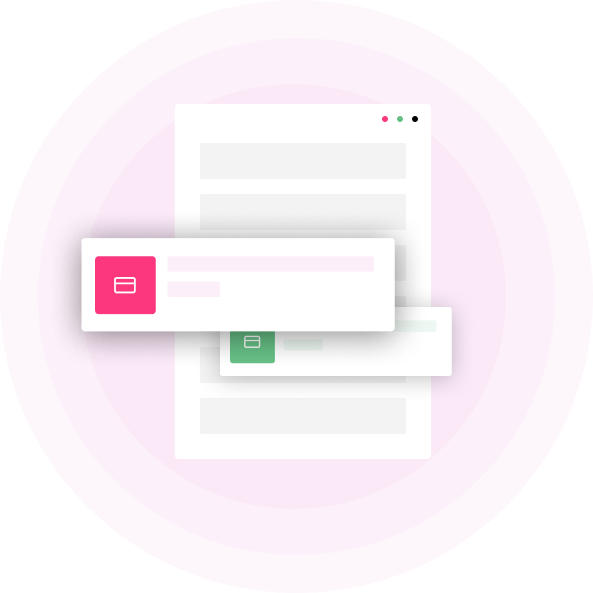
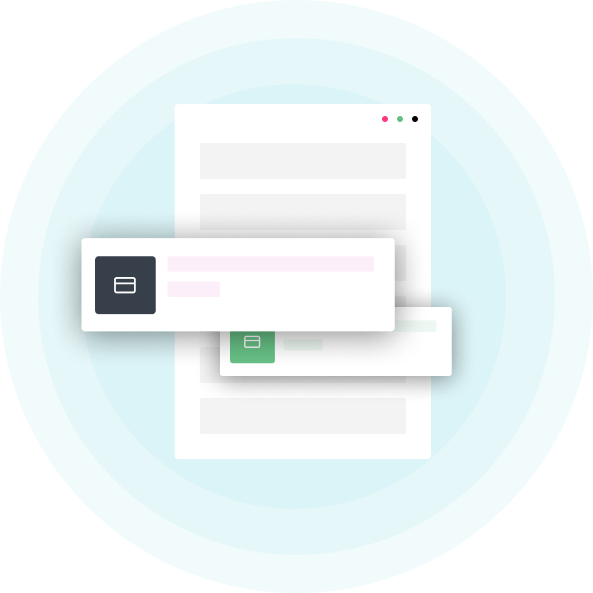
finzalizado

Changed region(s): [[0.1214, 0.2125, 0.8803, 0.8803], [0.3339, 0.1214, 0.6374, 0.1821]]

diff --git a/src/Pages/MainPage/mainPage.css b/src/Pages/MainPage/mainPage.css
@@ -1,3 +1,8 @@
+:root{
+    --headerBackground:#373F4A;
+    --buttonBackground:#D9CEC5;
+    --preto:#212529;
+}
 .divMainPage{
     background-color: white;
     width: 100%;
@@ -6,7 +11,8 @@
 }
 
 .header{
-    background-color: #F8F9FA;
+    margin-top: 0vh;
+    background-color:var(--headerBackground);
     height: 10vh;
     display: flex;
     flex-direction: row;
@@ -15,33 +21,46 @@
     box-shadow: 0px 4px 32px -12px rgba(0, 0, 0, 0.25);
 }
 .header>button{
-    background-color: #E9ECEF;
-    border-style: none;
+    background-color: transparent;
+    color: var(--buttonBackground);
+    border:1px solid var(--buttonBackground);
     border-radius: 5px;
     width: 60px;
     height: 5vh;
 }
+.header>button:hover{
+    transition: all 0.4s;
+    background-color: var(--buttonBackground);
+    color: var(--headerBackground);
+    cursor:pointer;
+}
 
 /*BODY*/
 .body{
-    color:black;
-    margin-top: 6vh;
+    background-color:var(--preto) ;
+    color:white;
     width: 100%;
+    height: 90vh;
     display:flex;
     flex-direction: row;
     justify-content: center;
+    margin: 0;
+    padding: 0;
+    box-sizing: border-box;
 }
 .form{
+    margin-top: 10vh;
     text-align: start;
     color:black;
-    border:1px solid #E9ECEF;
+    background-color: white;
     width: 360px;
-    height: 350px;
+    min-height: 350px;
     display: flex;
     flex-direction: column;
     align-items: center;
     justify-content: center;
     font-size: 12px;
+    border-radius: 5px;
 }
 .divForm{
     display: flex;
@@ -84,7 +103,7 @@
     border-style: none;
     width: 85%;
     height: 50px;
-    background-color: #FD377E;
+    background-color: var(--headerBackground);
     color: white;
     border-radius: 7px;
     font-size: 16px;
@@ -95,6 +114,7 @@
 .divList{
     width: 650px;
     margin-left: 30px;
+    margin-top: 10vh;
 }
 .divList>ul>.NoCard,.divList>ul{
     height: 65vh;
@@ -119,7 +139,7 @@
     list-style: none;
 }
 .headerList>ul>li>button{
-    background-color: #E9ECEF;
+    background-color: var(--buttonBackground);
     color:#5B6166;
     border-style: none;
     width: 80px;
@@ -127,7 +147,7 @@
     border-radius: 8px;
 }
 .headerList>ul>li>button:focus{
-    background-color: #FD377E;
+    background-color: var(--headerBackground);
     color:white;
     transition:all 0.5s
 }
@@ -136,7 +156,8 @@
     width: 100%;
 }
 .card{
-    background-color: #F8F9FA;
+    background-color: var(--headerBackground);
+    color: var(--buttonBackground);
     margin-bottom:5vh;
     height: 13vh;
     border-radius: 10px;
@@ -148,10 +169,14 @@
     padding-right: 15px;
 }
 .card>button{
+    background-color: var(--buttonBackground);
     border-style: none;
     height: 5vh;
     width: 30px;
     border-radius: 5px;
+}
+.card>button:hover{
+    cursor: pointer;
 }
 .card>section{
     display: flex;

diff --git a/src/components/Form/form.jsx b/src/components/Form/form.jsx
@@ -7,6 +7,8 @@ function Form({add,lista}){
     const [tipo, setTipo]           = useState("Entrada")
     const [preco, setPreco]         = useState()
     const [precoTotal,setPrecoTotal]= useState(0)
+    const [valorEntrada,setValorEntrada]= useState(0)
+    const [valorSaida,setValorSaida]= useState(0)
 
     function handleAdd(){   
         add(descricao,tipo,preco)
@@ -14,18 +16,23 @@ function Form({add,lista}){
     }
 
     useEffect(()=>{
-        const soma = lista.reduce((acc,cur)=>{
-            //se for despesa, multipla por -1
-            let sum
-            cur.type==="Despesa"?
-            sum= acc-cur.value:
-            sum= acc+cur.value;
+        const entrada = lista.filter((value)=>{
+            return value.type==="Entrada"
+        })
+        const totalEntrada = entrada.map((value)=>{
+            return value.value
+        })
 
-            return sum
-           },0)
-        
-        setPrecoTotal(soma)
+        const saida = lista.filter((value)=>{
+            return value.type==="Despesa"
+        })
+        const totalSaida = saida.map((value)=>{
+            return value.value
+        })
 
+
+        setValorEntrada(totalEntrada)
+        setValorSaida(totalSaida)
     },[lista])
 
     
@@ -51,7 +58,7 @@ function Form({add,lista}){
                 </div>
                 <input  type="submit" value ="Inserir Valor" />
             </form>
-            <ValorTotal valorTotal={precoTotal}/>
+            <ValorTotal entrada={valorEntrada} saida ={valorSaida}/>
         </div>
         
     )

diff --git a/src/components/ValorTotal/valorTotal.jsx b/src/components/ValorTotal/valorTotal.jsx
@@ -1,14 +1,32 @@
+import {PieChart, Pie, Sector, Cell, ResponsiveContainer} from 'recharts'
 
-function ValorTotal({valorTotal}){
-    
+function ValorTotal({entrada,saida}){
+
+    const data = [
+        { name: 'Group A', value: parseInt(entrada) },
+        { name: 'Group B', value: parseInt(saida) },
+      ];
+
+      const COLORS = ['#03B898', '#d31d10'];
 
     return(
         <div>
-            <div>
-                <h3>Valor Total</h3>
-                <span>O valor se refere ao saldo</span>
-            </div>
-            <span>{valorTotal}</span>
+            <PieChart width={250} height={200} onMouseEnter={()=>this.onPieEnter}>
+                <Pie
+                data={data}
+                cx={150}
+                cy={100}
+                innerRadius={50}
+                outerRadius={80}      
+                dataKey="value"
+                >
+                {data.map((entry, index) => (
+                    <Cell key={`cell-${index}`} fill={COLORS[index % COLORS.length]} />
+                ))}
+                </Pie>
+            </PieChart>
+
+            <span>{entrada-saida}</span>
         </div>
         
     )

diff --git a/src/Pages/FirstPage/firstPage.css b/src/Pages/FirstPage/firstPage.css
@@ -1,5 +1,9 @@
+:root{
+    --bege:#D9CEC5;
+    --preto:212529;
+}
 body{
-    background-color: #212529;
+    background-color: var(--preto);
     color: white;
 }
 .App{
@@ -14,14 +18,19 @@ body{
     text-align: start;
 }
 .btnIniciar{
-    background-color: #FD377E;
-    color: white;
-    border-style: none;
+    background-color: transparent;
+    color: var(--bege);
+    border: 1px solid var(--bege);
     width: 250px;
     height: 7vh;
     border-radius: 5px;
     margin-top: 5vh;
     font-size: 20px;
+}
+.btnIniciar:hover{
+    background-color: var(--bege);
+    color: var(--preto);
+    transition: all 0.4s;
 }
 @media only screen and(max-width:500px){
 

diff --git a/src/components/Header/header.jsx b/src/components/Header/header.jsx
@@ -1,4 +1,4 @@
-import logo from '../../Assets/Nu Kenzie.png'
+import logo from '../../Assets/logo.png'
 
 function Header({logOut}){
     return(

diff --git a/src/Pages/FirstPage/text.jsx b/src/Pages/FirstPage/text.jsx
@@ -1,4 +1,4 @@
-import Logo from '../../Assets/logo.png'
+import Logo from '../../Assets/Nu Kenzie.png'
 
 function Text({LogIn}){
     
